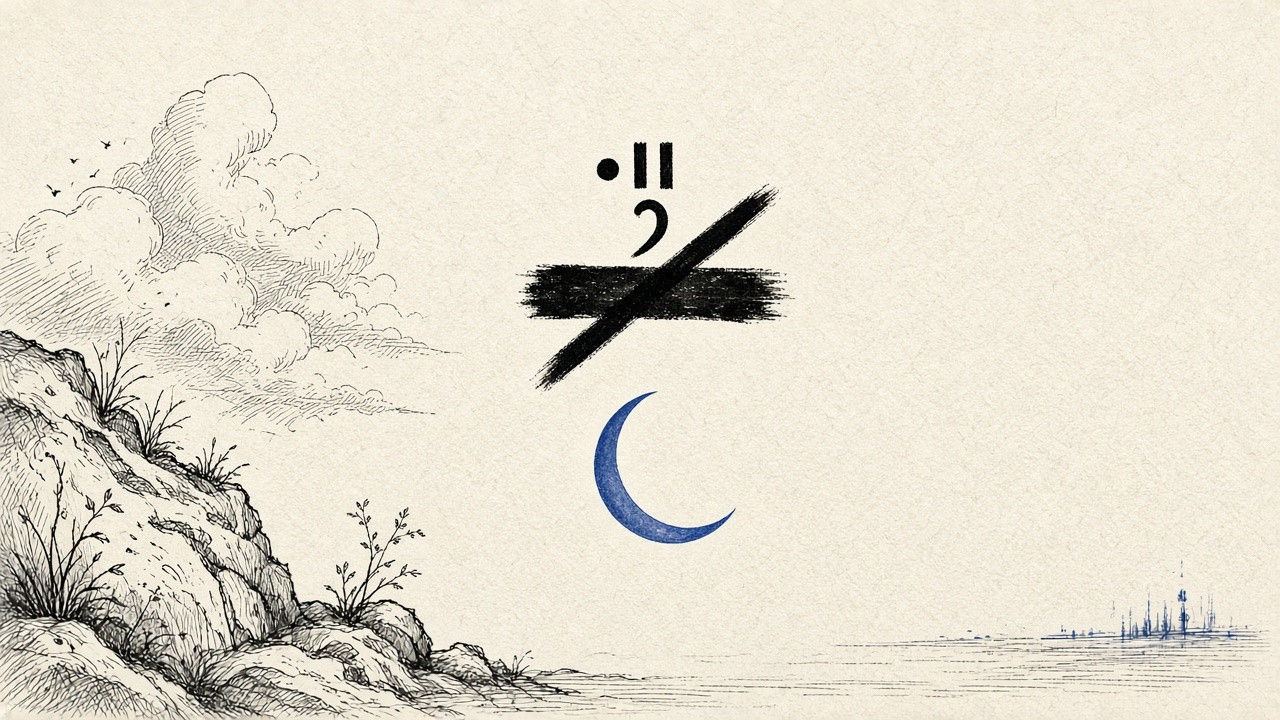
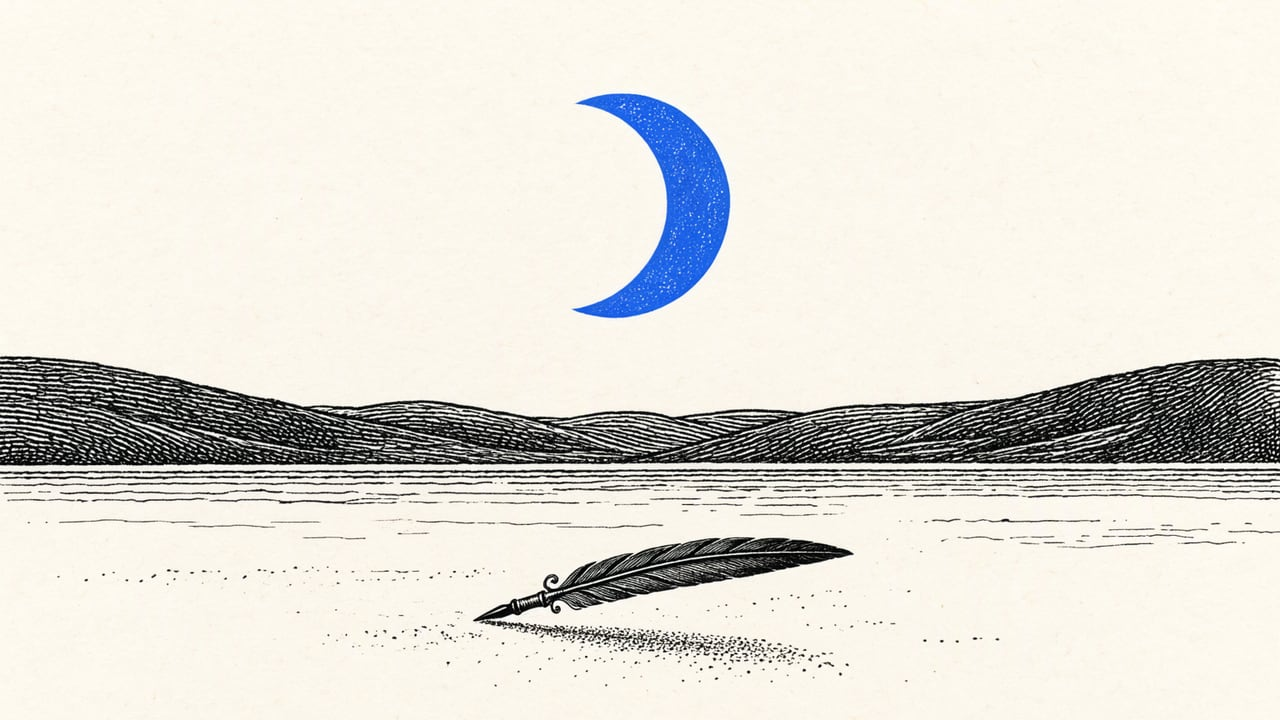
Art: Sogni MOSS Image SFT covers for 4 Elevate heroes + Engage card art (#69)
Generated with Sogni model moss_image_sft_int8_convrot in Tajjalan cover
style. Replaces weak heroes (moonly, sacred frequencies, one-equals-two,
split-brain) and adds cover-style tiles for Mind Reader and AstroClock.
Stack untouched.

diff --git a/pages/engage/index.vue b/pages/engage/index.vue
@@ -5,13 +5,6 @@ useSeoMeta({
   ogUrl: 'https://entertrainer.in/engage',
 })
 
-const MIND_READER_SYMBOLS = [
-  '<circle cx="12" cy="12" r="7.5" fill="none" stroke="currentColor" stroke-width="2"/><circle cx="17.5" cy="7" r="2.2" fill="currentColor"/>',
-  '<path d="m12 2 8 4.7v9.6L12 21l-8-4.7V6.7L12 2Z" fill="none" stroke="currentColor" stroke-width="2" stroke-linejoin="round"/>',
-  '<path d="M4 18a11 11 0 0 1 16 0M7 14a7 7 0 0 1 10 0M10 10a3 3 0 0 1 4 0" fill="none" stroke="currentColor" stroke-width="2" stroke-linecap="round"/>',
-  '<circle cx="12" cy="12" r="8.5" fill="none" stroke="currentColor" stroke-width="1.8"/><circle cx="12" cy="12" r="2" fill="currentColor"/>',
-  '<path d="m12 2 1.8 7.2L21 11l-7.2 1.8L12 20l-1.8-7.2L3 11l7.2-1.8L12 2Z" fill="currentColor"/>'
-]
 </script>
 
 <template>
@@ -44,8 +37,8 @@ const MIND_READER_SYMBOLS = [
       </li>
       <li class="engage__step" style="--step: 1">
         <NuxtLink to="/engage/read-my-mind" class="engage__card engage__card--mind-reader">
-          <span class="engage__icon engage__icon--mind-reader" aria-hidden="true">
-            <i v-for="(symbol, i) in MIND_READER_SYMBOLS" :key="i"><svg viewBox="0 0 24 24" aria-hidden="true" v-html="symbol"></svg></i>
+          <span class="engage__icon engage__icon--art" aria-hidden="true">
+            <EdEditorialImage src="/engage/mind-reader.webp" alt="" />
           </span>
           <span class="engage__card-text">
             <span class="engage__step-no">02</span><strong class="engage__card-name">The Mind Reader</strong>
@@ -59,36 +52,8 @@ const MIND_READER_SYMBOLS = [
       </li>
       <li class="engage__step" style="--step: 2">
         <NuxtLink to="/engage/astroclock" class="engage__card engage__card--astroclock">
-          <span class="engage__icon engage__icon--astroclock" aria-hidden="true">
-            <svg viewBox="0 0 48 48" width="34" height="34" fill="none" aria-hidden="true">
-              <circle cx="24" cy="24" r="20" stroke="currentColor" stroke-width="1.6" opacity="0.35"/>
-              <circle cx="24" cy="24" r="15.5" stroke="currentColor" stroke-width="2.2"/>
-              <circle cx="24" cy="24" r="10.5" stroke="currentColor" stroke-width="1.3" opacity="0.85"/>
-              <g stroke="currentColor" stroke-width="1.8" stroke-linecap="round">
-                <line x1="24" y1="5.5" x2="24" y2="9.2"/>
-                <line x1="24" y1="38.8" x2="24" y2="42.5"/>
-                <line x1="5.5" y1="24" x2="9.2" y2="24"/>
-                <line x1="38.8" y1="24" x2="42.5" y2="24"/>
-                <line x1="11.2" y1="11.2" x2="13.8" y2="13.8"/>
-                <line x1="34.2" y1="34.2" x2="36.8" y2="36.8"/>
-                <line x1="36.8" y1="11.2" x2="34.2" y2="13.8"/>
-                <line x1="13.8" y1="34.2" x2="11.2" y2="36.8"/>
-              </g>
-              <g fill="currentColor" opacity="0.9">
-                <circle cx="24" cy="13.5" r="1.1"/>
-                <circle cx="31.5" cy="16.8" r="0.95"/>
-                <circle cx="34.5" cy="24" r="1.1"/>
-                <circle cx="31.5" cy="31.2" r="0.95"/>
-                <circle cx="24" cy="34.5" r="1.1"/>
-                <circle cx="16.5" cy="31.2" r="0.95"/>
-                <circle cx="13.5" cy="24" r="1.1"/>
-                <circle cx="16.5" cy="16.8" r="0.95"/>
-              </g>
-              <line x1="24" y1="24" x2="24" y2="12.5" stroke="currentColor" stroke-width="2.2" stroke-linecap="round"/>
-              <circle cx="24" cy="12.5" r="1.8" fill="currentColor"/>
-              <circle cx="24" cy="24" r="3.2" fill="currentColor"/>
-              <circle cx="24" cy="24" r="1.35" fill="var(--accent)"/>
-            </svg>
+          <span class="engage__icon engage__icon--art" aria-hidden="true">
+            <EdEditorialImage src="/engage/astroclock.webp" alt="" />
           </span>
           <span class="engage__card-text">
             <span class="engage__step-no">03</span><strong class="engage__card-name">AstroClock</strong>
@@ -189,6 +154,16 @@ const MIND_READER_SYMBOLS = [
   width: 100%;
   height: 100%;
 }
+
+/* Ink-and-cobalt cover art (Sogni MOSS Image SFT). Stack keeps its arcade tile. */
+.engage__icon--art {
+  width: var(--space-89, 89rem);
+  height: var(--space-89, 89rem);
+  padding: 0;
+  overflow: hidden;
+  background: #F7F1E4;
+}
+.engage__icon--art :deep(img) { display: block; width: 100%; height: 100%; object-fit: cover; }
 
 .engage__icon--stack {
   display: grid;

diff --git a/content/blogs.ts b/content/blogs.ts
@@ -53,7 +53,7 @@ export const BLOG_POSTS: BlogPost[] = [
     tags: ['language', 'linguistics', 'literature'],
     minutes: 5,
     hero: '/blog/moonly/hero.jpg',
-    heroAlt: 'The word MOONLY struck through in black, with the word LUNAR in bold cobalt blue beneath it and a small crescent moon in the corner.',
+    heroAlt: 'Cream-paper ink drawing: a cobalt crescent moon above a hatched horizon of low hills, with an old quill pen lying on the ground below.',
     status: 'published',
     publishedAt: '2026-08-28T12:54:49+00:00'
   },
@@ -123,7 +123,7 @@ export const BLOG_POSTS: BlogPost[] = [
     tags: ['cognition', 'neuroscience', 'consciousness'],
     minutes: 6,
     hero: '/blog/your-mouth-can-be-sure-for-reasons-your-eyes-never-had/hero.jpg',
-    heroAlt: 'Cream-paper ink drawing: two heads divided by a cobalt seam, a hand finding a key on one side, a speaking mouth on the other.',
+    heroAlt: 'Cream-paper ink drawing of a head in profile split by a cobalt seam: on one side a hatched brain whose hand holds a cobalt key, on the other a face speaking with confidence.',
     status: 'published',
     publishedAt: '2026-09-22T15:45:00+00:00'
   },
@@ -137,7 +137,7 @@ export const BLOG_POSTS: BlogPost[] = [
     tags: ['sound', 'healing', 'practice'],
     minutes: 8,
     hero: '/blog/sacred-frequencies/hero.jpg',
-    heroAlt: 'Cream paper, a hatched ink ground, nine evenly spaced ticks, and one cobalt sine wave above them.',
+    heroAlt: 'Cream-paper ink drawing of a hatched singing bowl with one cobalt sound wave rising from its rim and drifting across empty paper.',
     status: 'published',
     publishedAt: '2026-10-04T19:40:00+00:00'
   },
@@ -151,7 +151,7 @@ export const BLOG_POSTS: BlogPost[] = [
     tags: ['maths', 'pi', 'philosophy'],
     minutes: 7,
     hero: '/blog/one-equals-two/hero.jpg',
-    heroAlt: 'Cream paper, a hatched ink wheel on a ruler, and one cobalt line where the wheel unrolls once, stopping just past the third mark and scattering into dots.',
+    heroAlt: 'Cream-paper ink drawing of an old balance scale holding one stone on one pan and two on the other, sitting level, with a thin cobalt crack running down its post.',
     status: 'published',
     publishedAt: '2026-10-06T16:45:00+00:00'
   },
